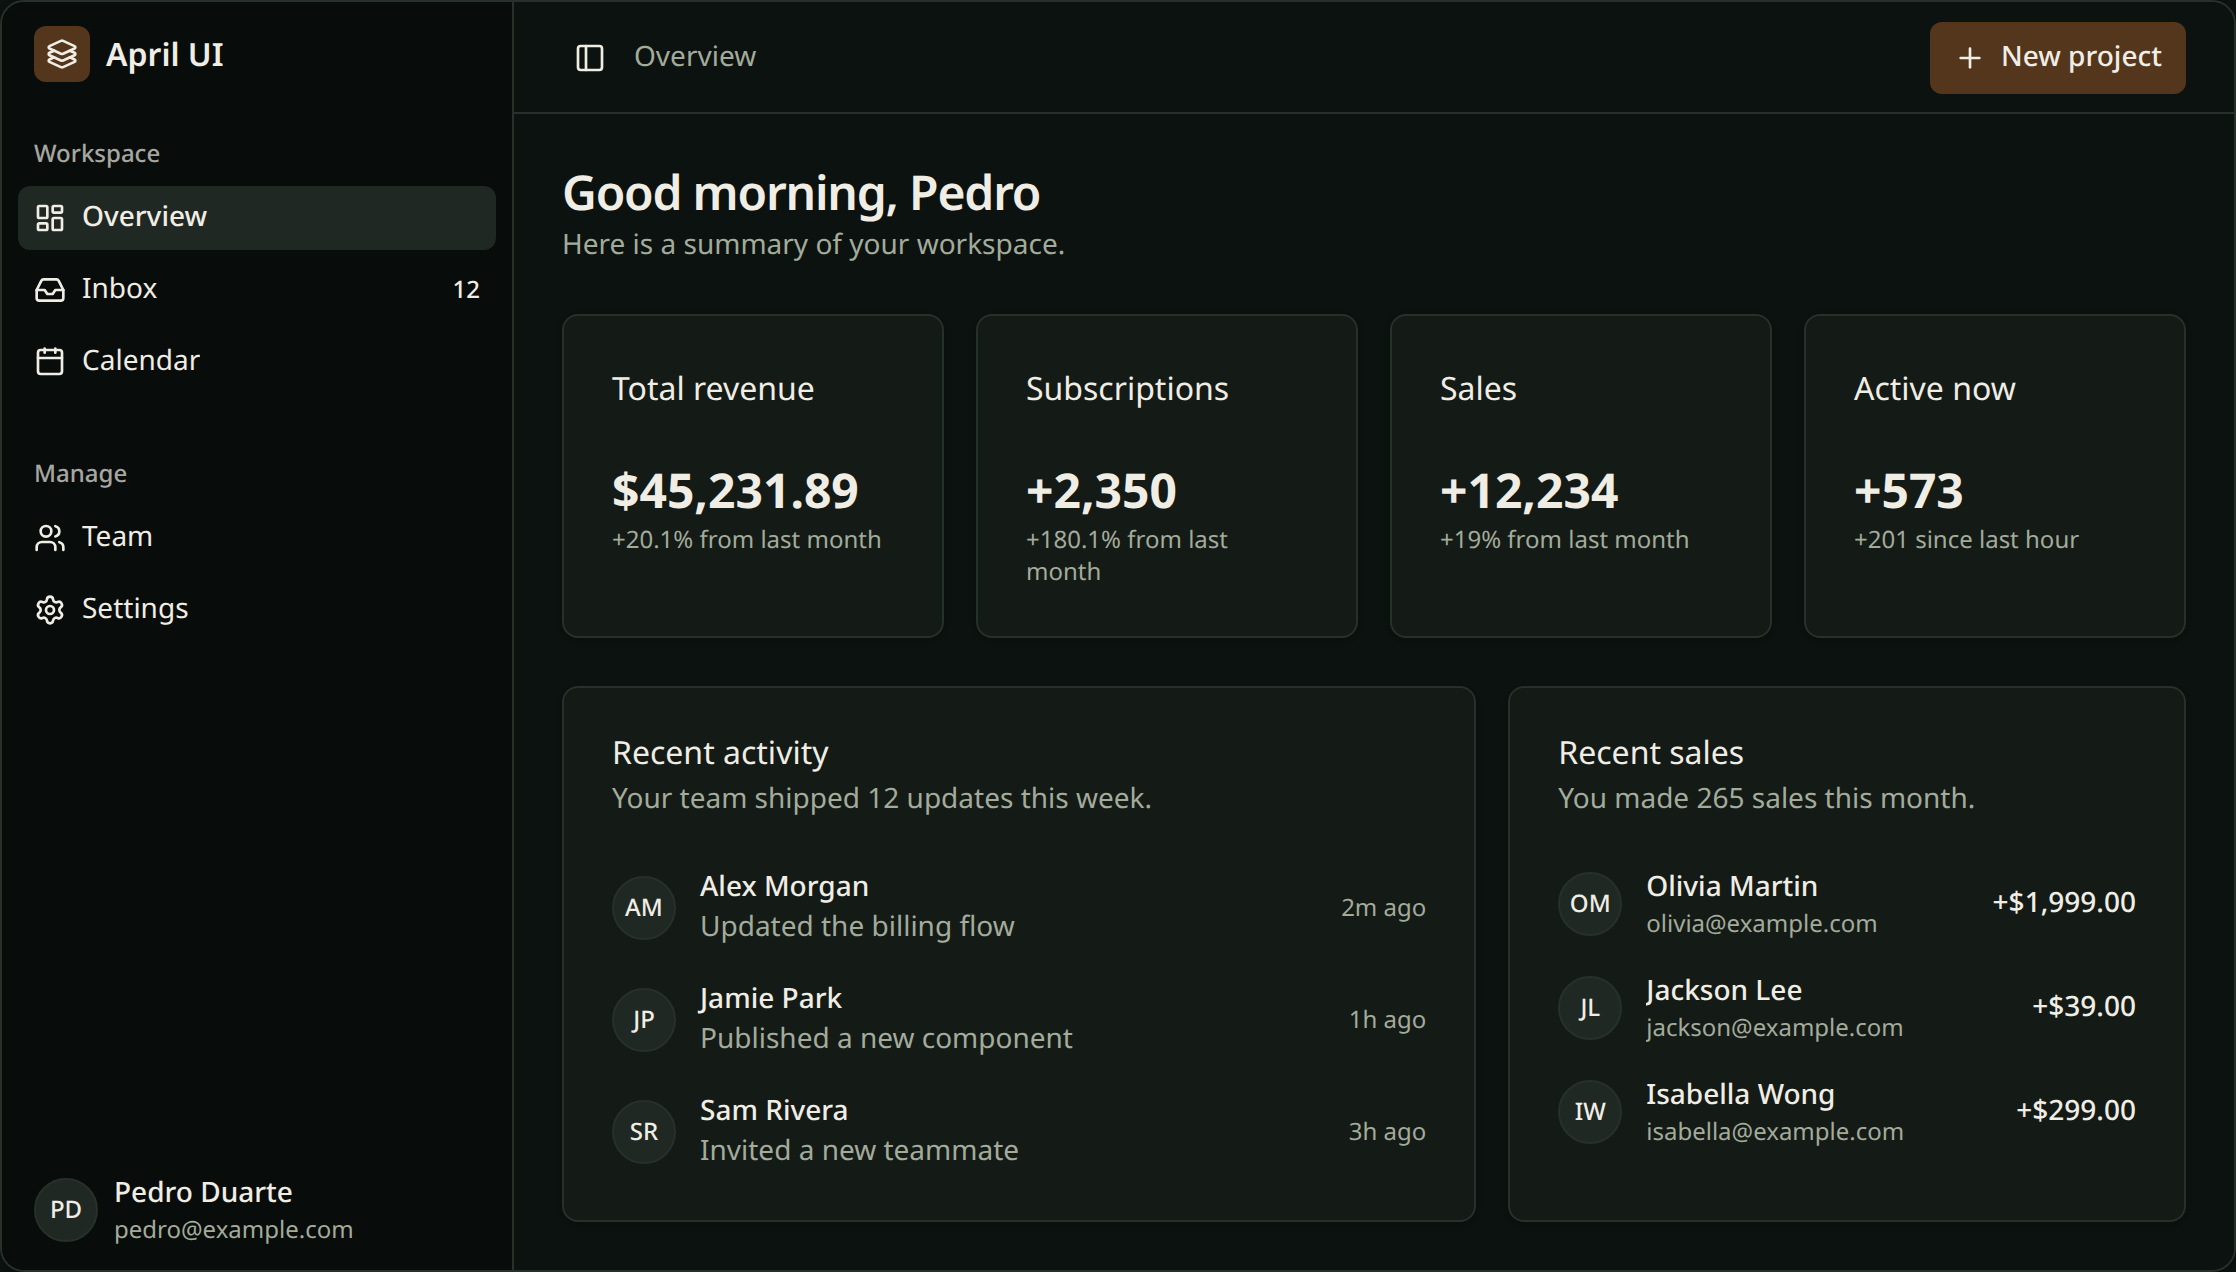
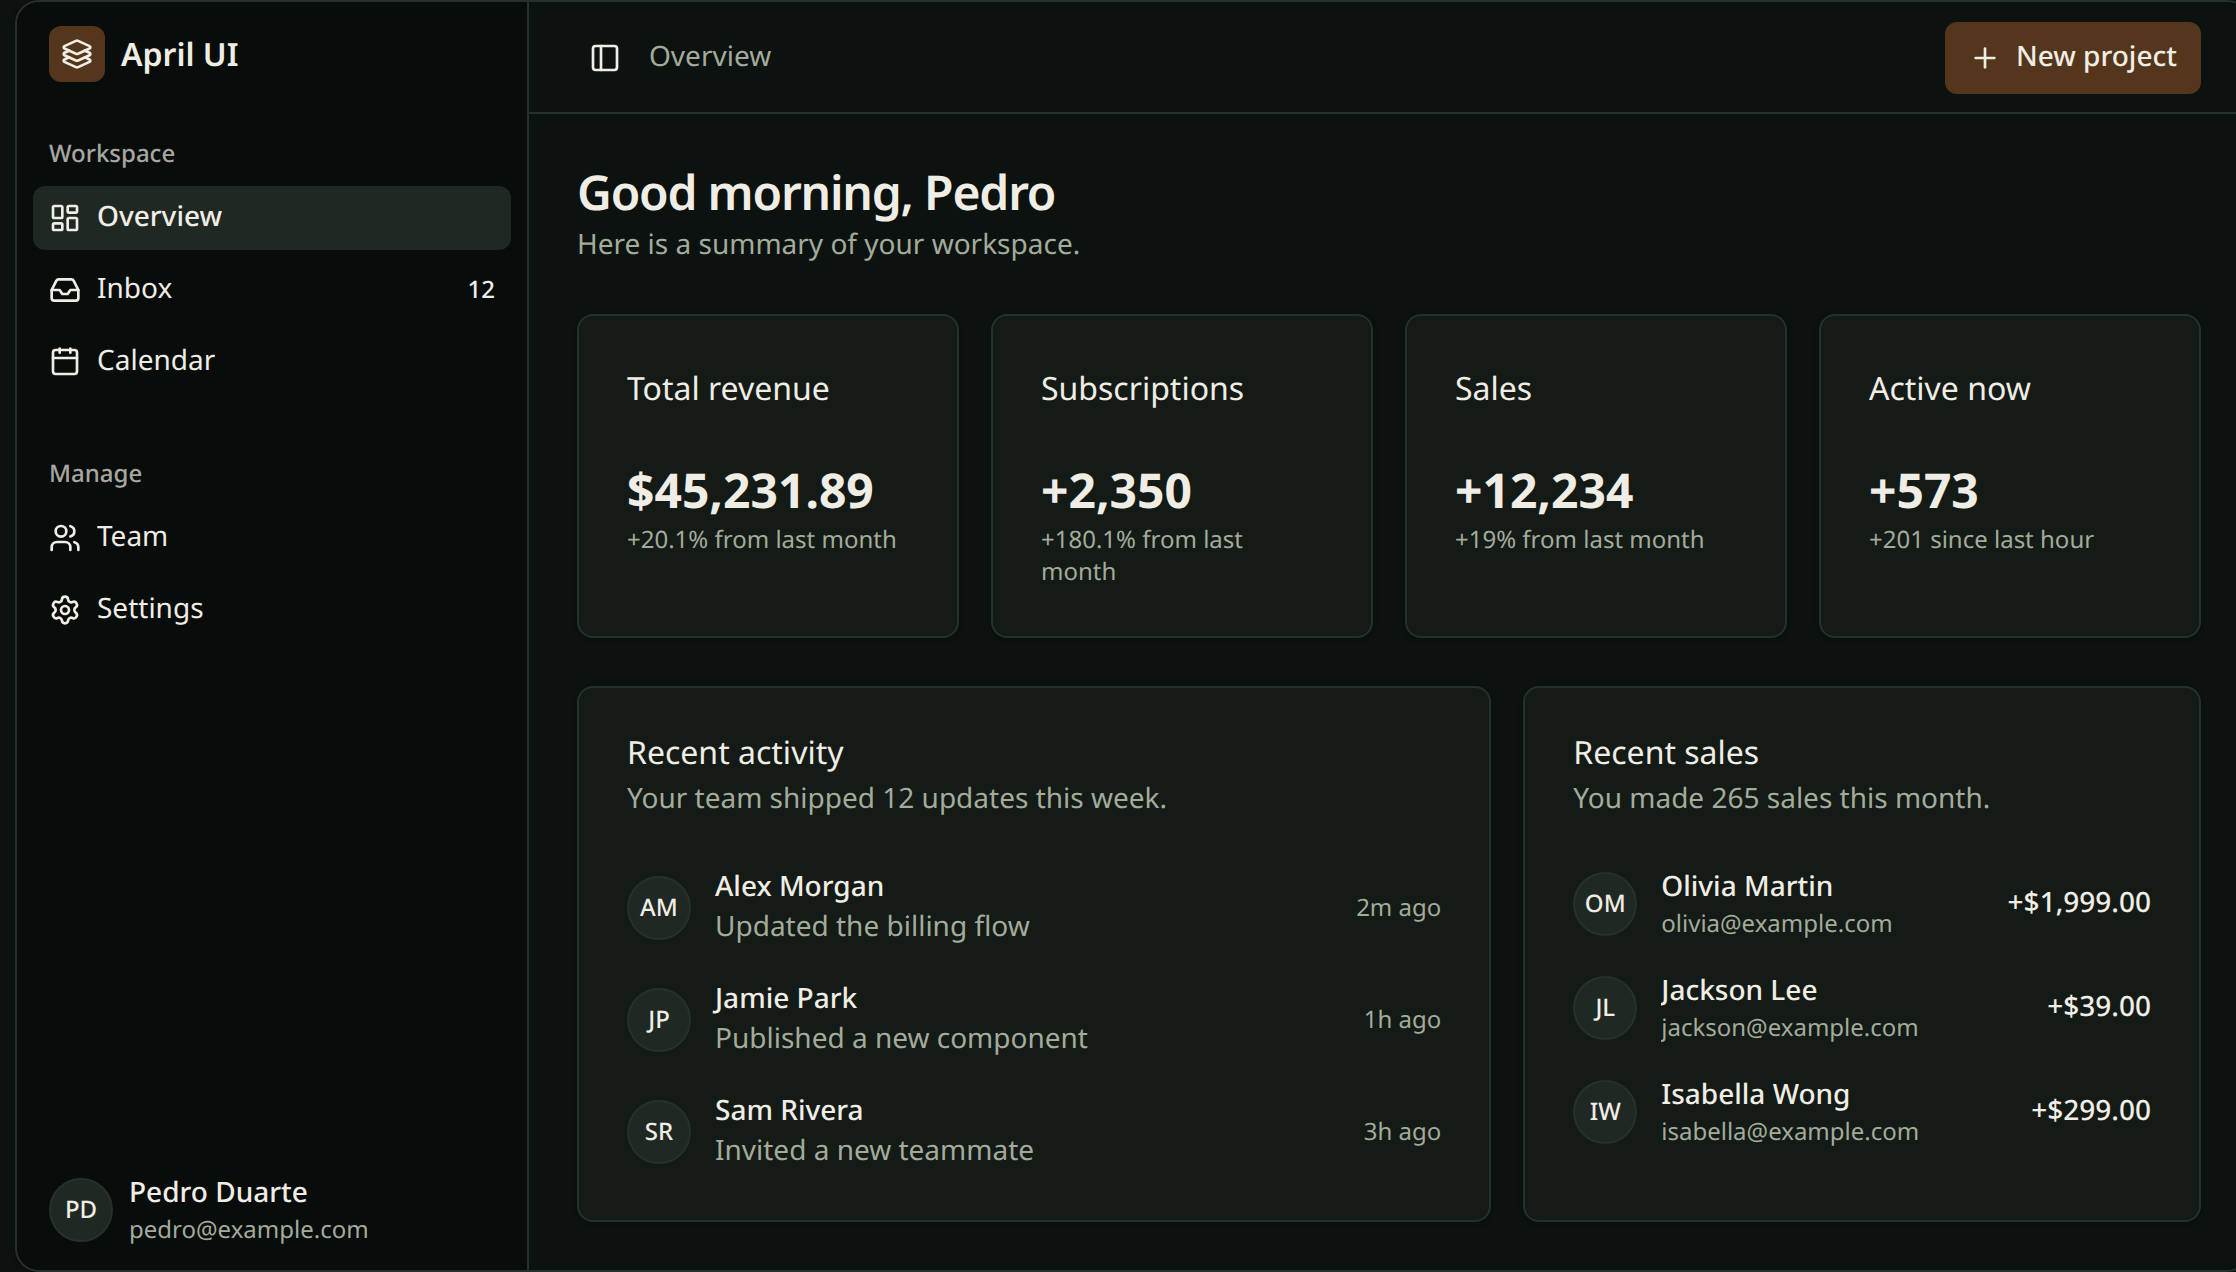
Fix dark accent text contrast

diff --git a/resources/css/app.css b/resources/css/app.css
@@ -90,7 +90,7 @@ html.dark:not([data-april-theme]) {
     --popover: 145 15% 9%;
     --popover-foreground: 45 28% 92%;
     --primary: 28 50% 22%;
-    --primary-text: 28 50% 46%;
+    --primary-text: 28 50% 64%;
     --primary-foreground: 45 28% 92%;
     --secondary: 145 12% 14%;
     --secondary-foreground: 45 28% 92%;
@@ -124,10 +124,7 @@ html.dark:not([data-april-theme]) {
 }
 
 @layer components {
-    /* The dark brown action color is too dark for copy on forest surfaces. */
-    .text-primary,
-    .primary-text,
-    .hover\:text-primary:hover {
+    .primary-text {
         color: hsl(var(--primary-text));
     }
 
@@ -161,6 +158,14 @@ html.dark:not([data-april-theme]) {
 
     .april-hero-frame {
         animation: april-float 12s ease-in-out infinite;
+    }
+}
+
+@layer utilities {
+    /* The dark brown action color is too dark for copy on forest surfaces. */
+    .dark .text-primary,
+    .dark .hover\:text-primary:hover {
+        color: hsl(var(--primary-text));
     }
 }
 

diff --git a/resources/views/components/layout.blade.php b/resources/views/components/layout.blade.php
@@ -128,7 +128,7 @@
                 darkAccent: '30 20% 15%',
                 darkSidebarBackground: '145 22% 4%',
                 darkPrimary: '28 50% 22%',
-                darkPrimaryText: '28 50% 46%',
+                darkPrimaryText: '28 50% 64%',
                 darkPrimaryForeground: '45 28% 92%'
             }),
             rose: createAprilPalette('Rose', {
